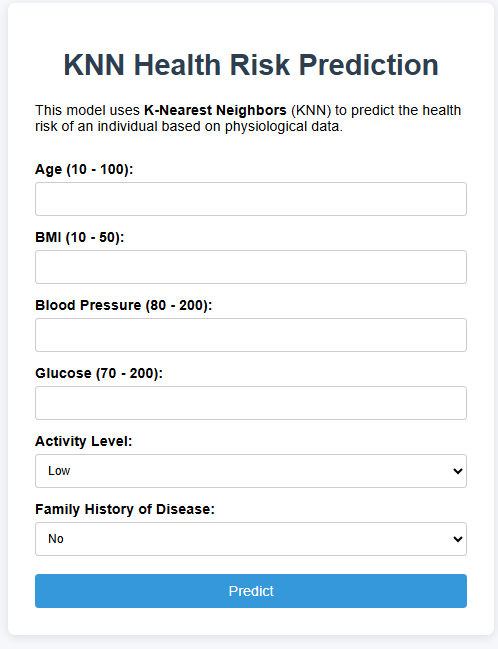
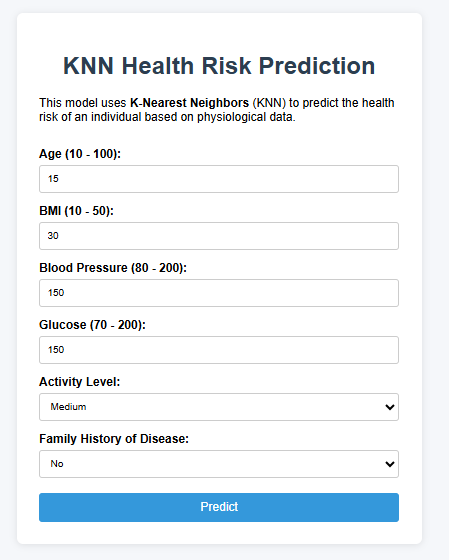
readme corrected

Changed region(s): [[0.0624, 0.0607, 0.9354, 0.6375], [0.0624, 0.6679, 0.9354, 0.9411]]

diff --git a/readme.md b/readme.md
@@ -5,17 +5,17 @@ A web-based Health Risk Prediction System built using the **K-Nearest Neighbors 
 
 ---
 
-## 🚀 Features
+##  Features
 
-- ✅ Predict health risks using KNN
-- 📊 Accepts essential health metrics as input
-- 🖥 Clean and simple web interface
-- ⚡ Fast predictions with a pre-trained ML model
-- 🛠 Easy to customize or extend with new models
+-  Predict health risks using KNN
+-  Accepts essential health metrics as input
+-  Clean and simple web interface
+-  Fast predictions with a pre-trained ML model
+-  Easy to customize or extend with new models
 
 ---
 
-## 🧠 Machine Learning Model
+##  Machine Learning Model
 
 - **Algorithm**: K-Nearest Neighbors (KNN)
 - **Library**: scikit-learn
@@ -30,7 +30,7 @@ A web-based Health Risk Prediction System built using the **K-Nearest Neighbors 
 
 ---
 
-## 📁 Project Structure
+##  Project Structure
 
 ```
 knn-health-predictor/
@@ -51,12 +51,12 @@ knn-health-predictor/
 
 ---
 
-## ⚙ Installation & Setup
+##  Installation & Setup
 
 ### 1. Clone the Repository
 
 ```bash
-git clone https://github.com/yourusername/knn-health-predictor.git
+git clone https://github.com/nithinskumar866/KNN_model.git
 cd knn-health-predictor
 ```
 
@@ -86,7 +86,7 @@ Visit: [http://127.0.0.1:5000/](http://127.0.0.1:5000/) in your browser.
 
 ---
 
-## 🧪 Sample Dataset
+##  Sample Dataset
 
 Example from `knn_health_risk_dataset.csv`:
 
@@ -100,13 +100,17 @@ age,bmi,blood_pressure,glucose,cholesterol,risk
 
 ---
 
-## 🖼 Screenshots
+##  Screenshots
+Input page:
+![alt text](image-1.png)
 
+Output:
+![alt text](image-2.png)
 
 
 ---
 
-## 🔮 Future Enhancements
+##  Future Enhancements
 
 - Add user authentication
 - Track and visualize user health trends
@@ -116,12 +120,3 @@ age,bmi,blood_pressure,glucose,cholesterol,risk
 
 ---
 
-## 📬 Contact
-
-For feedback or queries, reach out at `your.email@example.com` or raise an issue.
-
----
-
-## 📄 License
-
-This project is open-source and available under the [MIT License](LICENSE).
